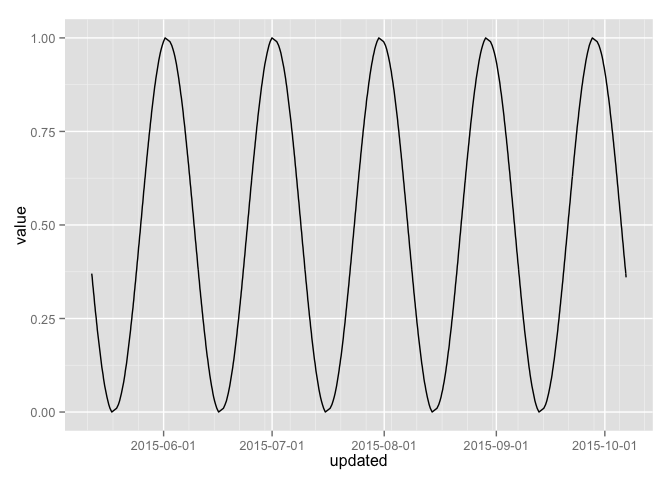
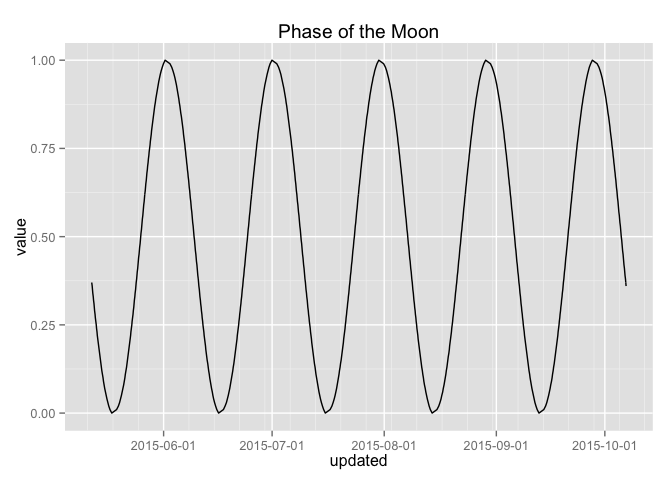
README updates

diff --git a/README.md b/README.md
@@ -124,7 +124,7 @@ Our new Fun-O-Meter metric is now ready to go. If you take a look at
     funometer
 
     ## $id
-    ## [1] "2186003818930933618"
+    ## [1] "7940323980985427280"
     ## 
     ## $ownerId
     ## [1] "4066136855367984353"
@@ -133,7 +133,7 @@ Our new Fun-O-Meter metric is now ready to go. If you take a look at
     ## [1] FALSE
     ## 
     ## $updated
-    ## [1] "2015-10-06T22:26:19.961Z"
+    ## [1] "2015-10-06T22:43:13.362Z"
     ## 
     ## $latestEventUpdated
     ## [1] ""
@@ -176,13 +176,13 @@ Our new Fun-O-Meter metric is now ready to go. If you take a look at
     ## 
     ## $links
     ## $links$self
-    ## [1] "https://api.numerousapp.com/v2/metrics/2186003818930933618"
+    ## [1] "https://api.numerousapp.com/v2/metrics/7940323980985427280"
     ## 
     ## $links$web
-    ## [1] "http://n.numerousapp.com/m/glw9oirxfzoy"
+    ## [1] "http://n.numerousapp.com/m/1obrlxrb8w500"
     ## 
     ## $links$embed
-    ## [1] "http://n.numerousapp.com/e/glw9oirxfzoy"
+    ## [1] "http://n.numerousapp.com/e/1obrlxrb8w500"
     ## 
     ## 
     ## attr(,"class")
@@ -243,7 +243,8 @@ data frame.
     moon_events <- get_events(metric_id = moonphase$id, df = TRUE)
     ggplot(data = moon_events, aes(x=updated, y=value)) +
         geom_line() +
-        scale_x_datetime(breaks = date_breaks("1 month"), minor_breaks = date_breaks("1 week"))
+        scale_x_datetime(breaks = date_breaks("1 month"), minor_breaks = date_breaks("1 week")) +
+        labs(title=moonphase$label)
 
 ![](figures/Plotting%20with%20ggplot-1.png)
 
